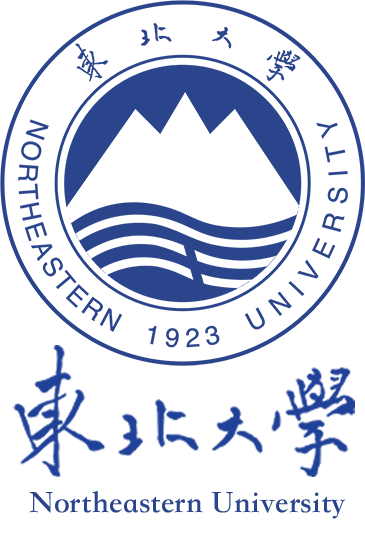
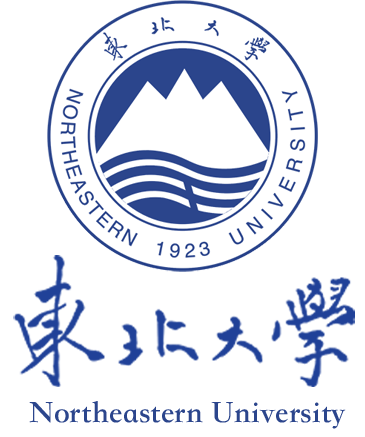
update projects and resize photo

diff --git a/index.html b/index.html
@@ -207,10 +207,8 @@
         <h2>Projects</h2>
         <ul>
           <li>Key technologies and applications of genomic data analysis and interpretation of large models. 2023-2026. </li>
-          <li>Ministry of Science and Technology, CHINA - Human-machine Integration Consultation. 2021-2024.</li>
+          <li>Ministry of Science and Technology, CHINA - Human-machine Integration Consultation. 2022-2024.</li>
           <li>Huawei - Prompt Learning Research Project. 2022-2023.</li>
-          <li>Chinaso - Weibo Event Extraction Project. 2019-2020.</li>
-          <li>Australia Arrow Energy - Mine Data Analysis. 2018-2019.</li>
         </ul>
       </section>
     </div>
